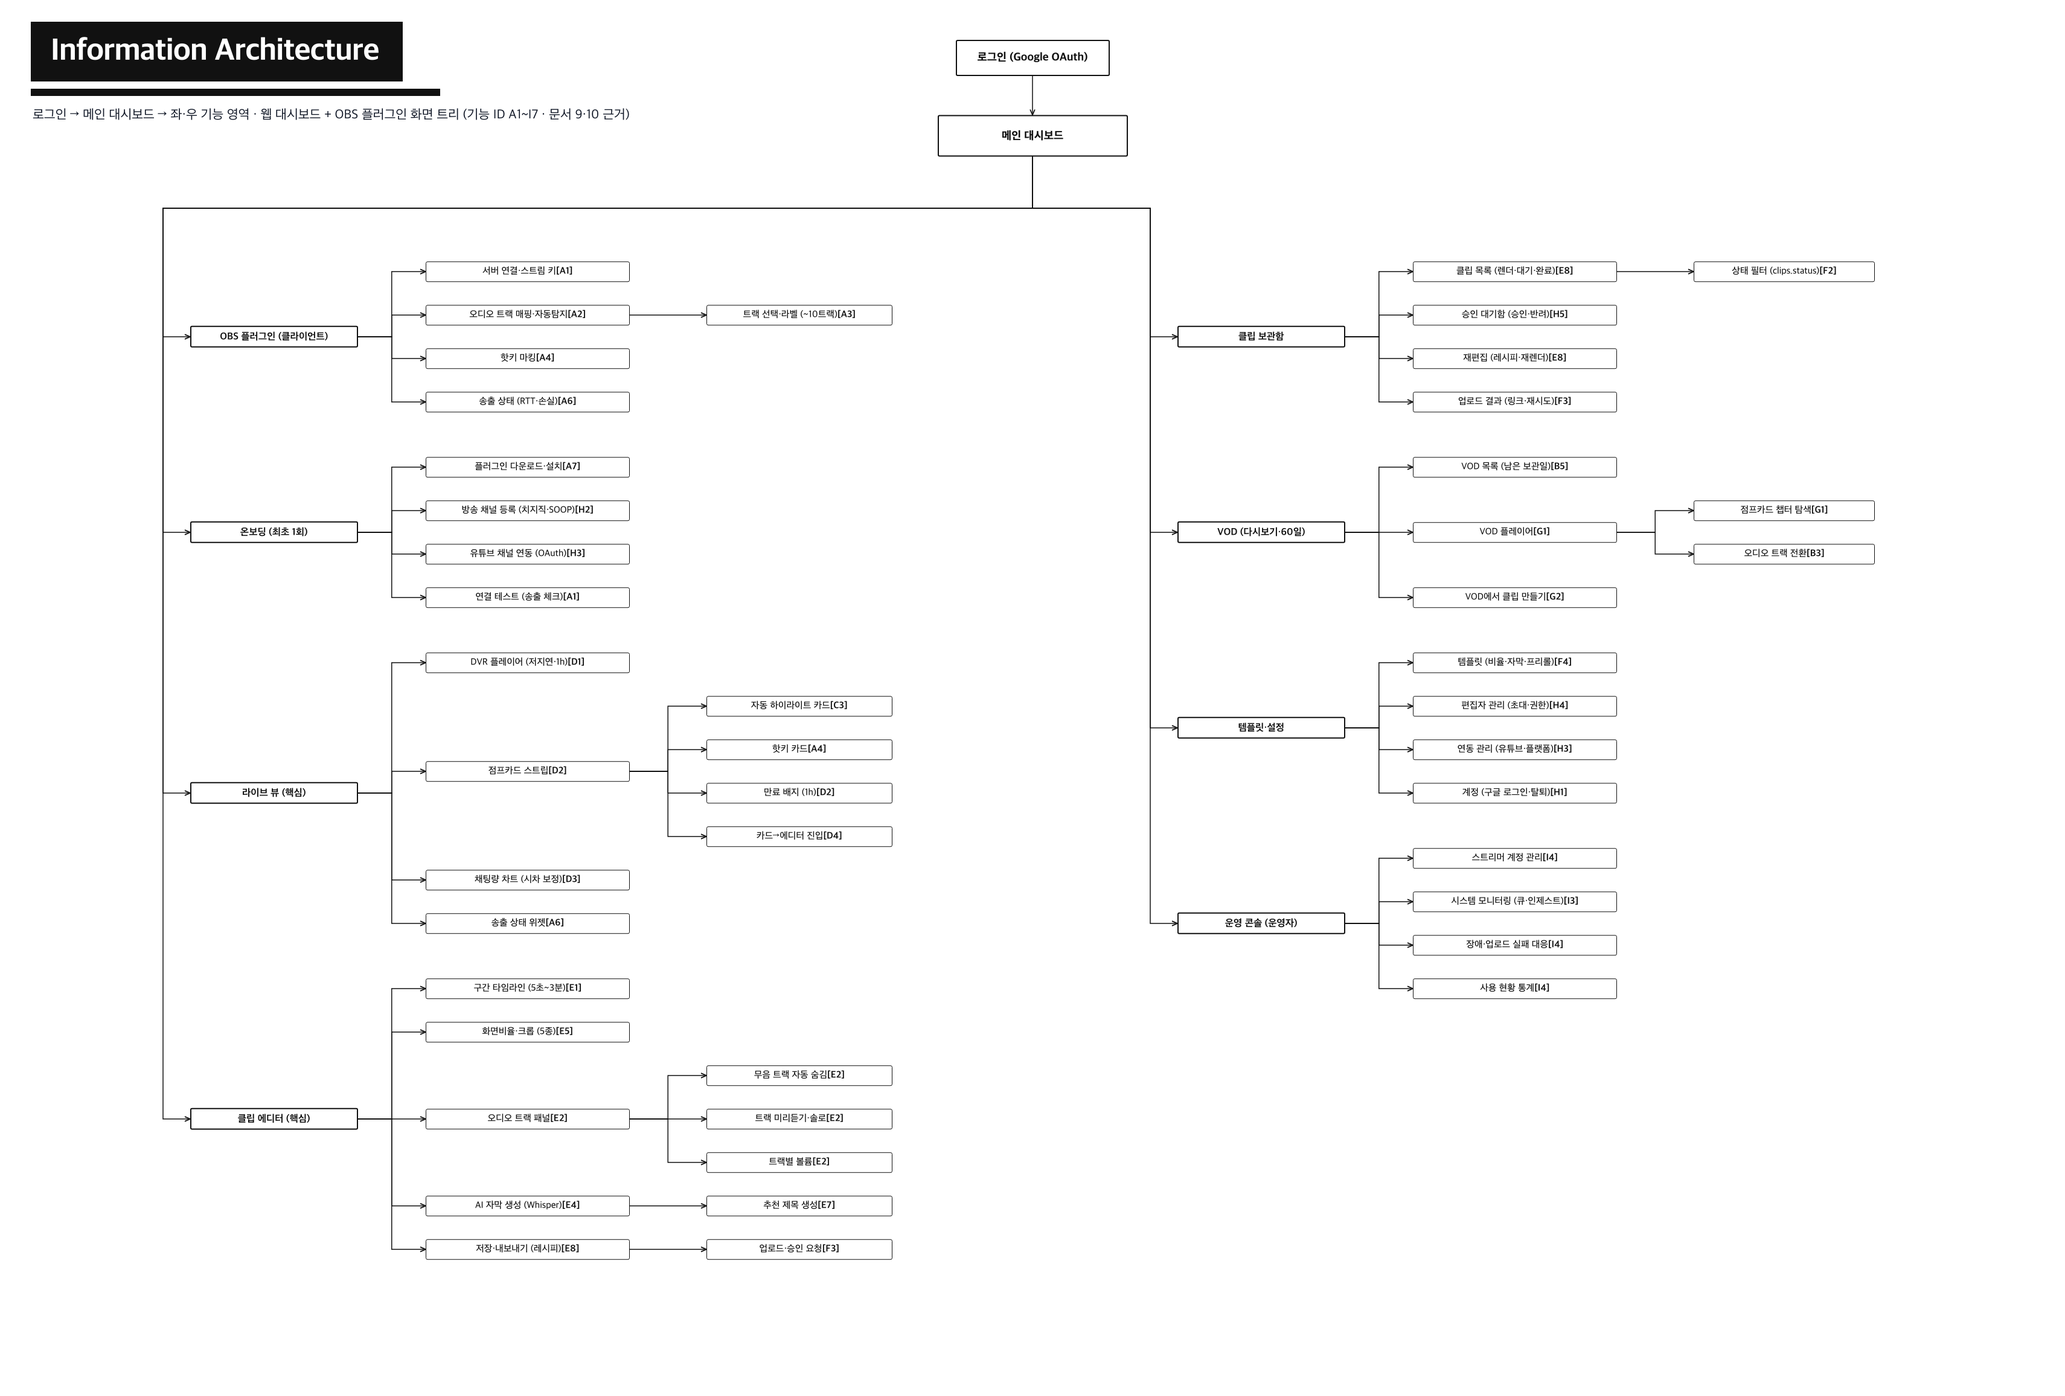
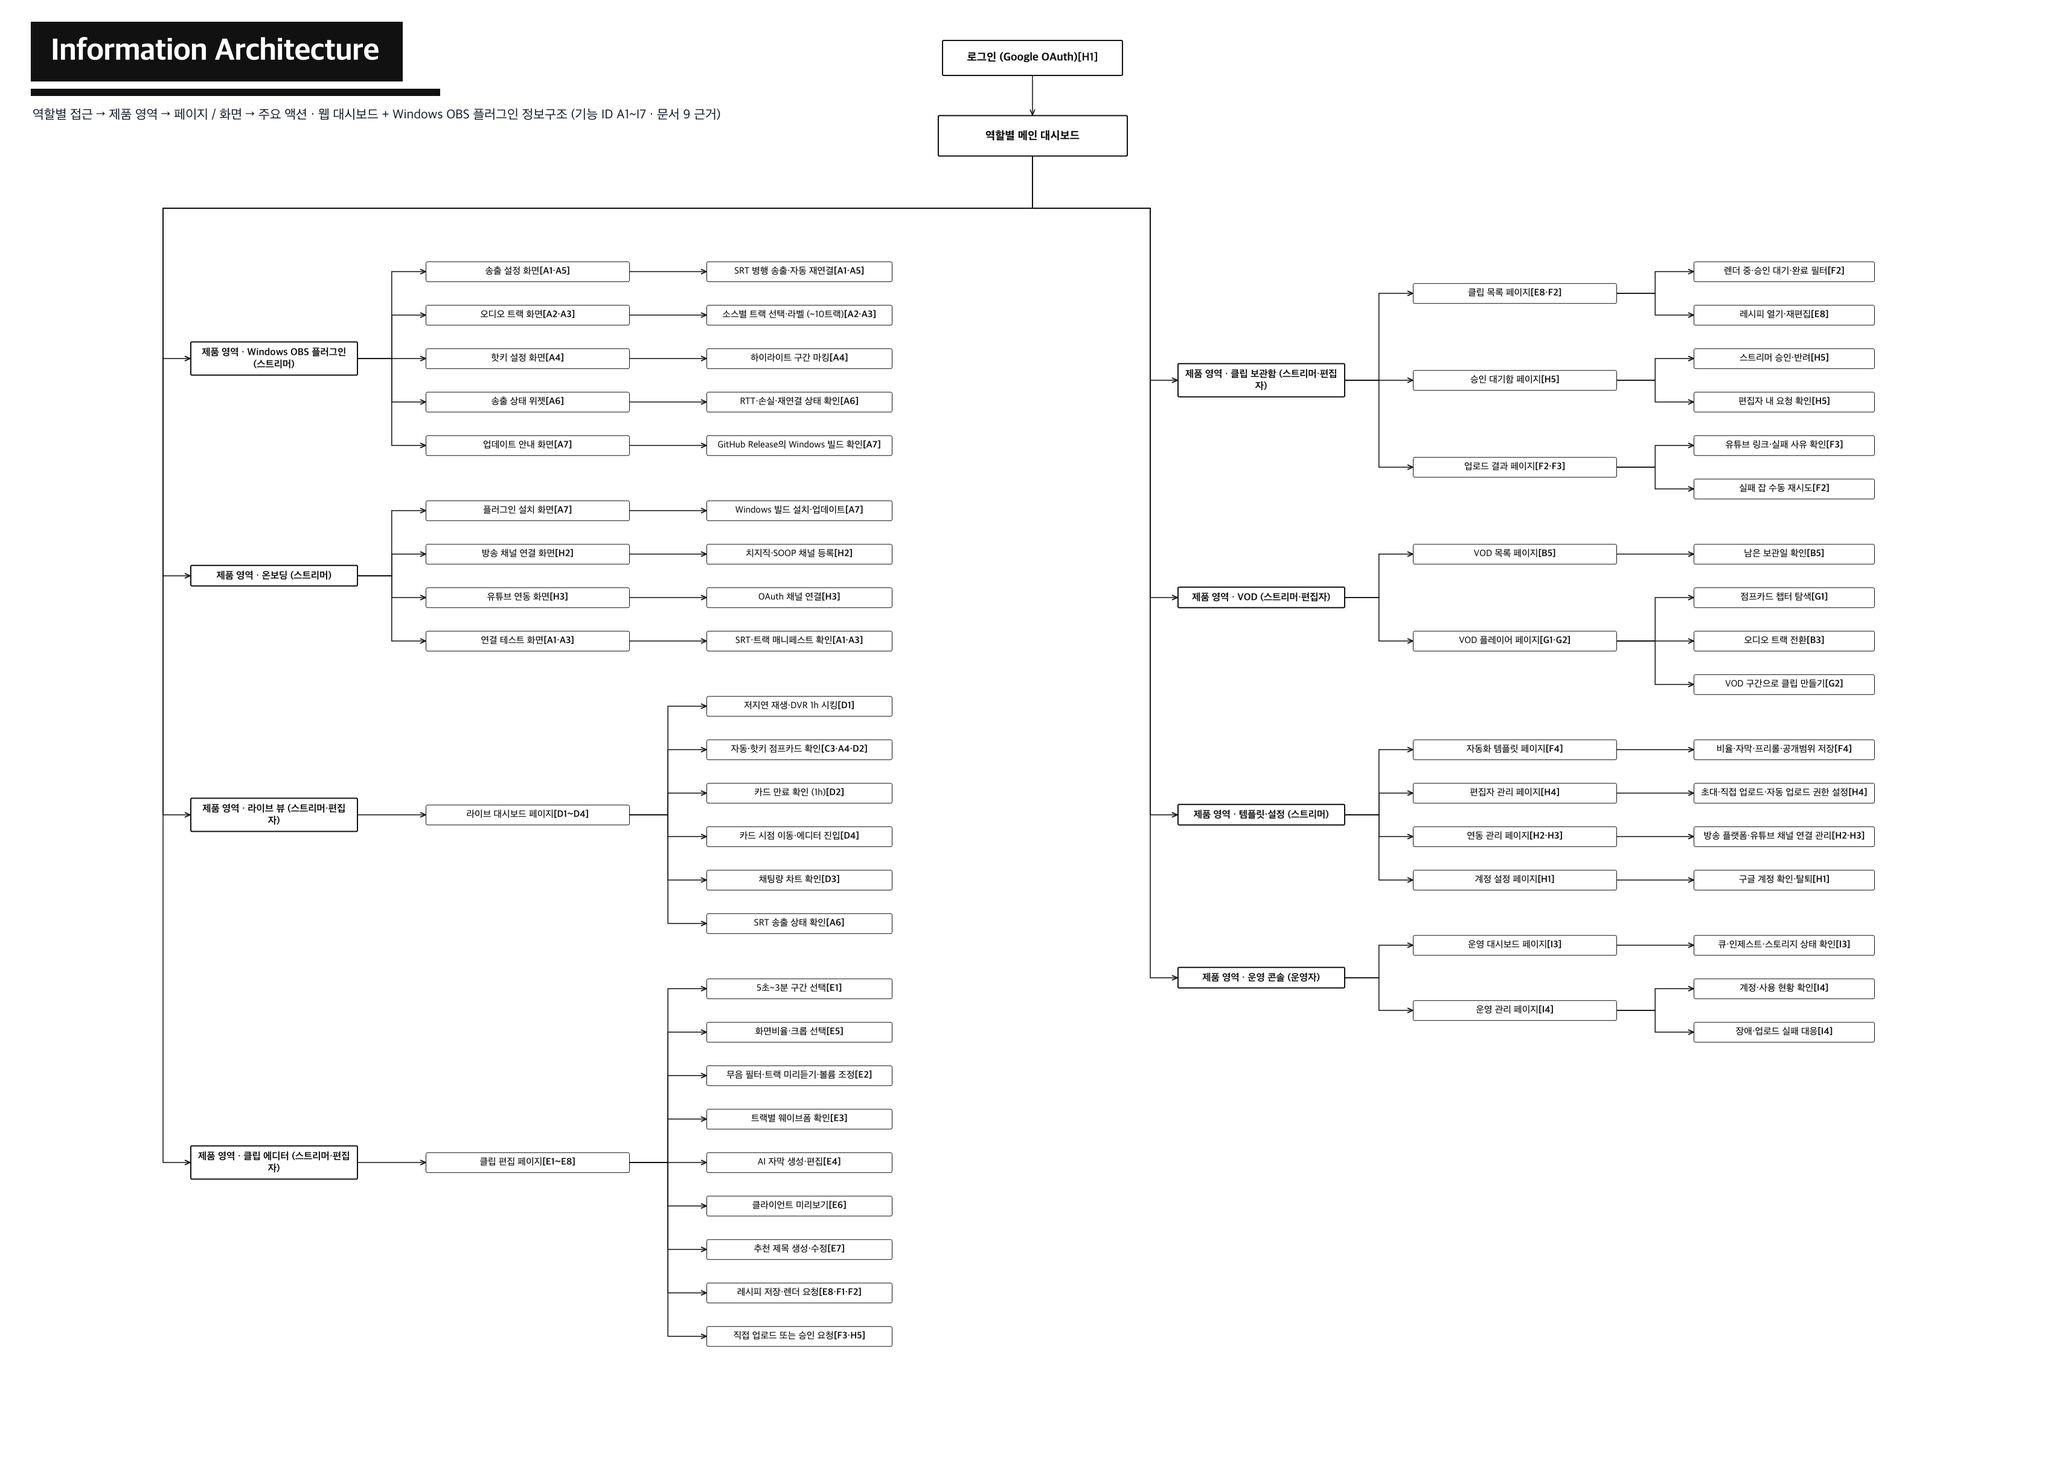
feat: 1번 IA 정보구조 정본화 (#5)
* feat: 1번 IA 정보구조 정본화

* fix: IA 에디터 기능 누락 보완

* fix: IA 뷰어 높이 동기화

diff --git a/1_Pokeclip_IA.html b/1_Pokeclip_IA.html
@@ -30,7 +30,7 @@
 <body>
   <div class="title-bar"><h1>Information Architecture</h1></div>
   <div class="title-underline"></div>
-  <div class="subtitle">로그인 → 메인 대시보드 → 좌·우 기능 영역 · 웹 대시보드 + OBS 플러그인 화면 트리 (기능 ID A1~I7 · 문서 9·10 근거)</div>
+  <div class="subtitle">역할별 접근 → 제품 영역 → 페이지 / 화면 → 주요 액션 · 웹 대시보드 + Windows OBS 플러그인 정보구조 (기능 ID A1~I7 · 문서 9 근거)</div>
 
   <svg class="wires" id="wires"></svg>
   <div id="nodes"></div>
@@ -49,67 +49,90 @@
 
   function n(t, ch){ return { t:t, ch:ch||null }; }
   const leftTree = [
-    n('OBS 플러그인 (클라이언트)', [
-      n('서버 연결·스트림 키 [A1]'),
-      n('오디오 트랙 매핑·자동탐지 [A2]', [ n('트랙 선택·라벨 (~10트랙) [A3]') ]),
-      n('핫키 마킹 [A4]'),
-      n('송출 상태 (RTT·손실) [A6]'),
+    n('제품 영역 · Windows OBS 플러그인 (스트리머)', [
+      n('송출 설정 화면 [A1·A5]', [ n('SRT 병행 송출·자동 재연결 [A1·A5]') ]),
+      n('오디오 트랙 화면 [A2·A3]', [ n('소스별 트랙 선택·라벨 (~10트랙) [A2·A3]') ]),
+      n('핫키 설정 화면 [A4]', [ n('하이라이트 구간 마킹 [A4]') ]),
+      n('송출 상태 위젯 [A6]', [ n('RTT·손실·재연결 상태 확인 [A6]') ]),
+      n('업데이트 안내 화면 [A7]', [ n('GitHub Release의 Windows 빌드 확인 [A7]') ]),
     ]),
-    n('온보딩 (최초 1회)', [
-      n('플러그인 다운로드·설치 [A7]'),
-      n('방송 채널 등록 (치지직·SOOP) [H2]'),
-      n('유튜브 채널 연동 (OAuth) [H3]'),
-      n('연결 테스트 (송출 체크) [A1]'),
+    n('제품 영역 · 온보딩 (스트리머)', [
+      n('플러그인 설치 화면 [A7]', [ n('Windows 빌드 설치·업데이트 [A7]') ]),
+      n('방송 채널 연결 화면 [H2]', [ n('치지직·SOOP 채널 등록 [H2]') ]),
+      n('유튜브 연동 화면 [H3]', [ n('OAuth 채널 연결 [H3]') ]),
+      n('연결 테스트 화면 [A1·A3]', [ n('SRT·트랙 매니페스트 확인 [A1·A3]') ]),
     ]),
-    n('라이브 뷰 (핵심)', [
-      n('DVR 플레이어 (저지연·1h) [D1]'),
-      n('점프카드 스트립 [D2]', [
-        n('자동 하이라이트 카드 [C3]'),
-        n('핫키 카드 [A4]'),
-        n('만료 배지 (1h) [D2]'),
-        n('카드→에디터 진입 [D4]'),
+    n('제품 영역 · 라이브 뷰 (스트리머·편집자)', [
+      n('라이브 대시보드 페이지 [D1~D4]', [
+        n('저지연 재생·DVR 1h 시킹 [D1]'),
+        n('자동·핫키 점프카드 확인 [C3·A4·D2]'),
+        n('카드 만료 확인 (1h) [D2]'),
+        n('카드 시점 이동·에디터 진입 [D4]'),
+        n('채팅량 차트 확인 [D3]'),
+        n('SRT 송출 상태 확인 [A6]'),
       ]),
-      n('채팅량 차트 (시차 보정) [D3]'),
-      n('송출 상태 위젯 [A6]'),
     ]),
-    n('클립 에디터 (핵심)', [
-      n('구간 타임라인 (5초~3분) [E1]'),
-      n('화면비율·크롭 (5종) [E5]'),
-      n('오디오 트랙 패널 [E2]', [
-        n('무음 트랙 자동 숨김 [E2]'),
-        n('트랙 미리듣기·솔로 [E2]'),
-        n('트랙별 볼륨 [E2]'),
+    n('제품 영역 · 클립 에디터 (스트리머·편집자)', [
+      n('클립 편집 페이지 [E1~E8]', [
+        n('5초~3분 구간 선택 [E1]'),
+        n('화면비율·크롭 선택 [E5]'),
+        n('무음 필터·트랙 미리듣기·볼륨 조정 [E2]'),
+        n('트랙별 웨이브폼 확인 [E3]'),
+        n('AI 자막 생성·편집 [E4]'),
+        n('클라이언트 미리보기 [E6]'),
+        n('추천 제목 생성·수정 [E7]'),
+        n('레시피 저장·렌더 요청 [E8·F1·F2]'),
+        n('직접 업로드 또는 승인 요청 [F3·H5]'),
       ]),
-      n('AI 자막 생성 (Whisper) [E4]', [ n('추천 제목 생성 [E7]') ]),
-      n('저장·내보내기 (레시피) [E8]', [ n('업로드·승인 요청 [F3]') ]),
     ]),
   ];
   const rightTree = [
-    n('클립 보관함', [
-      n('클립 목록 (렌더·대기·완료) [E8]', [ n('상태 필터 (clips.status) [F2]') ]),
-      n('승인 대기함 (승인·반려) [H5]'),
-      n('재편집 (레시피·재렌더) [E8]'),
-      n('업로드 결과 (링크·재시도) [F3]'),
+    n('제품 영역 · 클립 보관함 (스트리머·편집자)', [
+      n('클립 목록 페이지 [E8·F2]', [
+        n('렌더 중·승인 대기·완료 필터 [F2]'),
+        n('레시피 열기·재편집 [E8]'),
+      ]),
+      n('승인 대기함 페이지 [H5]', [
+        n('스트리머 승인·반려 [H5]'),
+        n('편집자 내 요청 확인 [H5]'),
+      ]),
+      n('업로드 결과 페이지 [F2·F3]', [
+        n('유튜브 링크·실패 사유 확인 [F3]'),
+        n('실패 잡 수동 재시도 [F2]'),
+      ]),
     ]),
-    n('VOD (다시보기·60일)', [
-      n('VOD 목록 (남은 보관일) [B5]'),
-      n('VOD 플레이어 [G1]', [
+    n('제품 영역 · VOD (스트리머·편집자)', [
+      n('VOD 목록 페이지 [B5]', [
+        n('남은 보관일 확인 [B5]'),
+      ]),
+      n('VOD 플레이어 페이지 [G1·G2]', [
         n('점프카드 챕터 탐색 [G1]'),
         n('오디오 트랙 전환 [B3]'),
+        n('VOD 구간으로 클립 만들기 [G2]'),
       ]),
-      n('VOD에서 클립 만들기 [G2]'),
     ]),
-    n('템플릿·설정', [
-      n('템플릿 (비율·자막·프리롤) [F4]'),
-      n('편집자 관리 (초대·권한) [H4]'),
-      n('연동 관리 (유튜브·플랫폼) [H3]'),
-      n('계정 (구글 로그인·탈퇴) [H1]'),
+    n('제품 영역 · 템플릿·설정 (스트리머)', [
+      n('자동화 템플릿 페이지 [F4]', [
+        n('비율·자막·프리롤·공개범위 저장 [F4]'),
+      ]),
+      n('편집자 관리 페이지 [H4]', [
+        n('초대·직접 업로드·자동 업로드 권한 설정 [H4]'),
+      ]),
+      n('연동 관리 페이지 [H2·H3]', [
+        n('방송 플랫폼·유튜브 채널 연결 관리 [H2·H3]'),
+      ]),
+      n('계정 설정 페이지 [H1]', [
+        n('구글 계정 확인·탈퇴 [H1]'),
+      ]),
     ]),
-    n('운영 콘솔 (운영자)', [
-      n('스트리머 계정 관리 [I4]'),
-      n('시스템 모니터링 (큐·인제스트) [I3]'),
-      n('장애·업로드 실패 대응 [I4]'),
-      n('사용 현황 통계 [I4]'),
+    n('제품 영역 · 운영 콘솔 (운영자)', [
+      n('운영 대시보드 페이지 [I3]', [
+        n('큐·인제스트·스토리지 상태 확인 [I3]'),
+      ]),
+      n('운영 관리 페이지 [I4]', [
+        n('계정·사용 현황 확인 [I4]'),
+        n('장애·업로드 실패 대응 [I4]'),
+      ]),
     ]),
   ];
 
@@ -130,8 +153,8 @@
   const rightEnd = Y;
   const H = Math.round(Math.max(leftEnd, rightEnd) + 90);
 
-  const root  = { t:'메인 대시보드',           x:1035, w:210, y:150, h:46, cls:'root' };
-  const login = { t:'로그인 (Google OAuth)',   x:1055, w:170, y:64,  h:40, cls:'root' };
+  const root  = { t:'역할별 메인 대시보드',        x:1035, w:210, y:150, h:46, cls:'root' };
+  const login = { t:'로그인 (Google OAuth) [H1]', x:1040, w:200, y:64,  h:40, cls:'root' };
 
   // ---- 노드 렌더 ----
   const box = document.getElementById('nodes');

diff --git a/site/src/lib/content.ts b/site/src/lib/content.ts
@@ -18,7 +18,7 @@ export interface DiagramMeta {
 
 export const DIAGRAMS: DiagramMeta[] = [
   { num: 0, title: '유스케이스', en: 'Use Case', file: '0_Pokeclip_UseCase.html', width: 2700, height: 1425 },
-  { num: 1, title: 'IA · 정보 구조', en: 'Information Architecture', file: '1_Pokeclip_IA.html', width: 2280, height: 1542 },
+  { num: 1, title: 'IA · 정보 구조', en: 'Information Architecture', file: '1_Pokeclip_IA.html', width: 2280, height: 1638 },
   { num: 2, title: '유저 저니', en: 'User Journey', file: '2_Pokeclip_UserJourney.html', width: 2620, height: 1400 },
   { num: 3, title: '서비스 아키텍처', en: 'Service Architecture', file: '3_Pokeclip_SA.html', width: 2700, height: 1560 },
   { num: 4, title: '시스템 아키텍처', en: 'System Architecture', file: '4_Pokeclip_SysA.html', width: 2700, height: 1700 },

diff --git a/site/src/content/diagrams/1.md b/site/src/content/diagrams/1.md
@@ -1,65 +1,66 @@
-> 정보 구조(IA) 다이어그램을 EDGE 슬라이드 문법(순수 모노크롬 트리)으로 재구성한 뷰. 로그인 → 메인 대시보드 → 좌·우 기능 영역으로 대분기하는 웹 대시보드 + OBS 플러그인 화면 트리. 말단 화면·버튼·상태·필터에는 기능 ID(A1~I7, [9번 기능명세서](#) 근거)를 배지로 부착했고, 보관함·승인함 등 상태 필터는 [10번 데이터플로우](#)의 화면↔테이블 매핑(clips.status 등)을 따른다.
+> Google 로그인 `H1` → 역할별 메인 대시보드 → **제품 영역 → 페이지/화면 → 주요 액션** 순으로 읽는 정보 구조. 데이터베이스 필드명이 아니라 사용자가 실제로 접하는 화면과 행동을 기준으로 구성했으며, 각 항목은 [9번 기능명세서](#)의 기능 ID에 연결된다.
 
-## OBS 플러그인 (클라이언트)
+## Windows OBS 플러그인 · 스트리머
 
-- 서버 연결·스트림 키 [A1]
-- 오디오 트랙 매핑·자동탐지 [A2] → 트랙 선택·라벨 (~10트랙) [A3]
-- 핫키 마킹 [A4]
-- 송출 상태 (RTT·손실) [A6]
+- **송출 설정 화면** `A1·A5` → SRT 병행 송출·자동 재연결
+- **오디오 트랙 화면** `A2·A3` → 소스별 트랙 선택·라벨 (~10트랙)
+- **핫키 설정 화면** `A4` → 하이라이트 구간 마킹
+- **송출 상태 위젯** `A6` → RTT·손실·재연결 상태 확인
+- **업데이트 안내 화면** `A7` → GitHub Release의 Windows 빌드 확인
 
 ## 온보딩 (최초 1회)
 
-- 플러그인 다운로드·설치 [A7]
-- 방송 채널 등록 (치지직·SOOP) [H2]
-- 유튜브 채널 연동 (OAuth) [H3]
-- 연결 테스트 (송출 체크) [A1]
+- **플러그인 설치 화면** `A7` → Windows 빌드 설치·업데이트
+- **방송 채널 연결 화면** `H2` → 치지직·SOOP 채널 등록
+- **유튜브 연동 화면** `H3` → OAuth 채널 연결
+- **연결 테스트 화면** `A1·A3` → SRT·트랙 매니페스트 확인
 
-## 라이브 뷰 (핵심)
+## 라이브 뷰 · 스트리머/편집자
 
-- DVR 플레이어 (저지연·1h 되감기) [D1]
-- 점프카드 스트립 [D2] — 자동 하이라이트 카드 [C3] · 핫키 카드 [A4] · 만료 배지 (1h) [D2] · 카드→에디터 진입 [D4]
-- 채팅량 차트 (시차 보정) [D3]
-- 송출 상태 위젯 [A6]
+- **라이브 대시보드 페이지** `D1~D4`
+  - 저지연 재생·DVR 1h 시킹 `D1`
+  - 자동·핫키 점프카드 확인 `C3·A4·D2`, 카드 만료 확인 `D2`
+  - 카드 시점 이동·에디터 진입 `D4`
+  - 채팅량 차트 확인 `D3`, SRT 송출 상태 확인 `A6`
 
-## 클립 에디터 (핵심)
+## 클립 에디터 · 스트리머/편집자
 
-- 구간 타임라인 (5초~3분) [E1]
-- 화면비율·크롭 (5종) [E5]
-- 오디오 트랙 패널 [E2] — 무음 트랙 자동 숨김 [E2] · 트랙 미리듣기·솔로 [E2] · 트랙별 볼륨 [E2]
-- AI 자막 생성 (Whisper) [E4] → 추천 제목 생성 [E7]
-- 저장·내보내기 (레시피) [E8] → 업로드·승인 요청 [F3]
+- **클립 편집 페이지** `E1~E8`
+  - 5초~3분 구간 선택 `E1`, 화면비율·크롭 선택 `E5`
+  - 무음 필터·트랙 미리듣기·볼륨 조정 `E2`, 트랙별 웨이브폼 확인 `E3`
+  - 브라우저에서 렌더 결과를 시뮬레이션하는 클라이언트 미리보기 `E6`
+  - AI 자막 생성·편집 `E4`, 추천 제목 생성·수정 `E7`
+  - 레시피 저장·렌더 요청 `E8·F1·F2`
+  - 스트리머/직접 업로드 권한자는 업로드 `F3`, 권한 없는 편집자는 승인 요청 `H5`
 
-## 클립 보관함
+## 클립 보관함 · 스트리머/편집자
 
-- 클립 목록 (렌더·대기·완료) [E8] → 상태 필터 (clips.status) [F2]
-- 승인 대기함 (승인·반려) [H5] — 스트리머 전용
-- 재편집 (레시피·재렌더) [E8]
-- 업로드 결과 (링크·재시도) [F3]
+- **클립 목록 페이지** `E8·F2` → 렌더 중·승인 대기·완료 필터, 레시피 열기·재편집
+- **승인 대기함 페이지** `H5` → 스트리머 승인·반려 / 편집자 내 요청 확인
+- **업로드 결과 페이지** `F2·F3` → 유튜브 링크·실패 사유 확인, 실패 잡 수동 재시도
 
 ## VOD (다시보기 · 60일 보관)
 
-- VOD 목록 (남은 보관일) [B5]
-- VOD 플레이어 [G1] — 점프카드 챕터 탐색 [G1] · 오디오 트랙 전환 [B3]
-- VOD에서 클립 만들기 [G2]
+- **VOD 목록 페이지** `B5` → 남은 보관일 확인
+- **VOD 플레이어 페이지** `G1·G2` → 점프카드 챕터 탐색 `G1`, 오디오 트랙 전환 `B3`, VOD 구간으로 클립 만들기 `G2`
 
-## 템플릿·설정
+## 템플릿·설정 · 스트리머
 
-- 템플릿 (비율·자막·프리롤) [F4] — 스트리머 전용
-- 편집자 관리 (초대·권한) [H4] — 스트리머 전용
-- 연동 관리 (유튜브·플랫폼) [H3]
-- 계정 (구글 로그인·탈퇴) [H1]
+- **자동화 템플릿 페이지** `F4` → 비율·자막·프리롤·공개범위 저장
+- **편집자 관리 페이지** `H4` → 초대·직접 업로드·자동 업로드 권한 설정
+- **연동 관리 페이지** `H2·H3` → 방송 플랫폼·유튜브 채널 연결 관리
+- **계정 설정 페이지** `H1` → 구글 계정 확인·탈퇴
 
 ## 운영 콘솔 (운영자 전용)
 
-- 스트리머 계정 관리 [I4]
-- 시스템 모니터링 (큐·인제스트) [I3]
-- 장애·업로드 실패 대응 [I4]
-- 사용 현황 통계 [I4]
+- **운영 대시보드 페이지** `I3` → 큐·인제스트·스토리지 상태 확인
+- **운영 관리 페이지** `I4` → 계정·사용 현황 확인, 장애·업로드 실패 대응
 
 ## 정책 노트
 
-- 대부분의 대시보드 화면은 **스트리머·편집자 공용** — 편집자는 부여받은 권한(업로드·자동업로드)에 따라 동작이 달라짐
+- 라이브 뷰·클립 에디터·보관함·VOD는 **스트리머·편집자 공용**이며, 편집자는 부여받은 직접 업로드·자동 업로드 권한에 따라 동작이 달라진다.
 - **승인 대기함**은 스트리머에겐 승인·반려 화면, 편집자에겐 '내 요청 목록'으로 역할별 표시
 - 유튜브 업로드는 항상 **스트리머의 채널 토큰**으로 실행 — 편집자는 채널 연동 불필요, 구글 로그인만
 - **VOD 보관 60일** (치지직 프로 등급 기준) · 방송 종료 시 자동 생성 · 클립·레시피는 영구, 재렌더는 60일 내
-- 핫키 바인딩은 OBS 단축키 시스템 사용 → 플러그인 영역에 위치
+- A7은 **Windows 설치·GitHub Release** 범위로 한정한다.
+- 핫키 바인딩은 OBS 단축키 시스템을 사용하므로 플러그인 영역에 위치한다.
